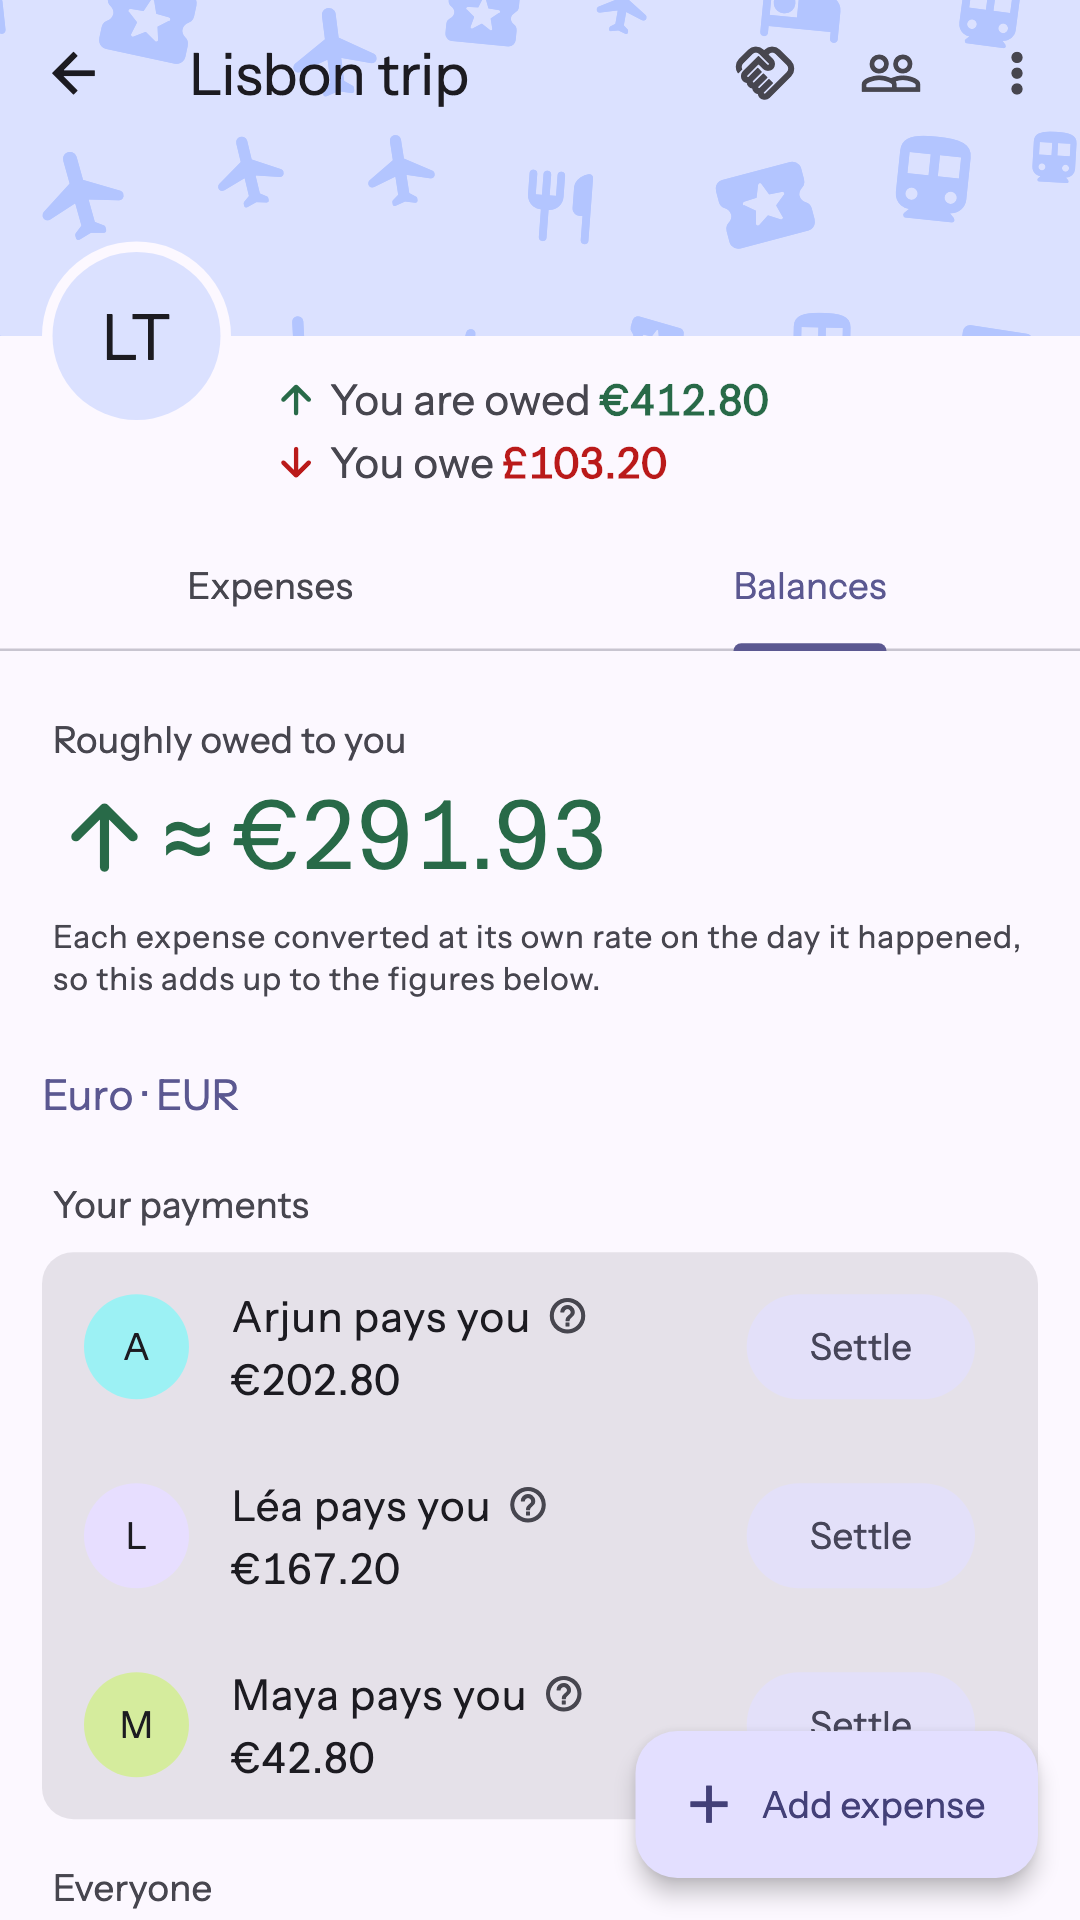
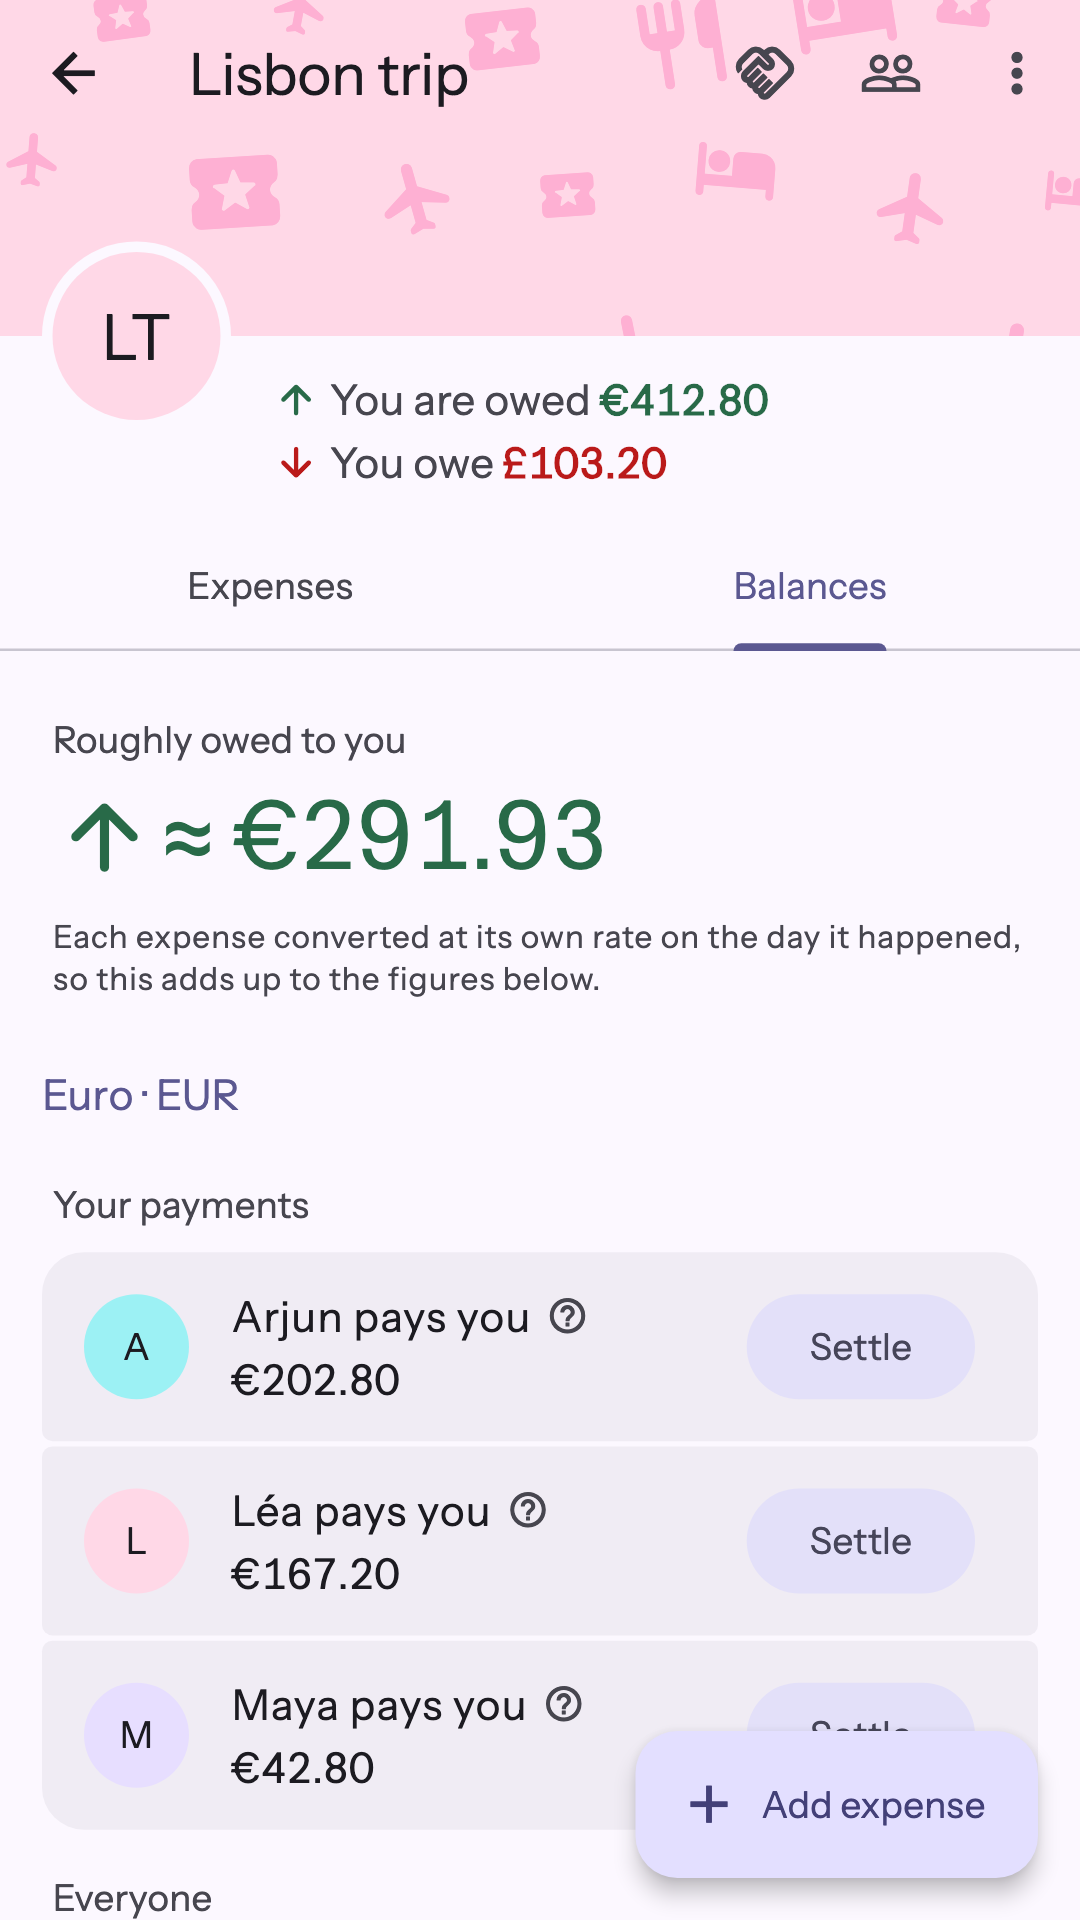
Render the store pictures and log the list and email changes
Claude-Session: https://claude.ai/code/session_01Dr4xGagtWRkvz2i6gQdUsX

diff --git a/CHANGELOG.md b/CHANGELOG.md
@@ -21,6 +21,8 @@ What changed in each version of the app, newest first. The format is
 - Insights open on the total spent.
 - Renaming a group happens in a dialog rather than a field that is always open.
 - Amounts use the app's own typeface, with figures that line up.
+- Lists are grouped the Material 3 Expressive way, as connected rows rather than separate cards, and icon buttons change shape as you press them.
+- The sign-in code email sets its code in the app's own typeface.
 
 ### Fixed
 - A group where you're owed one currency and owe another now says both on the groups list, instead of calling it all owed to you.
